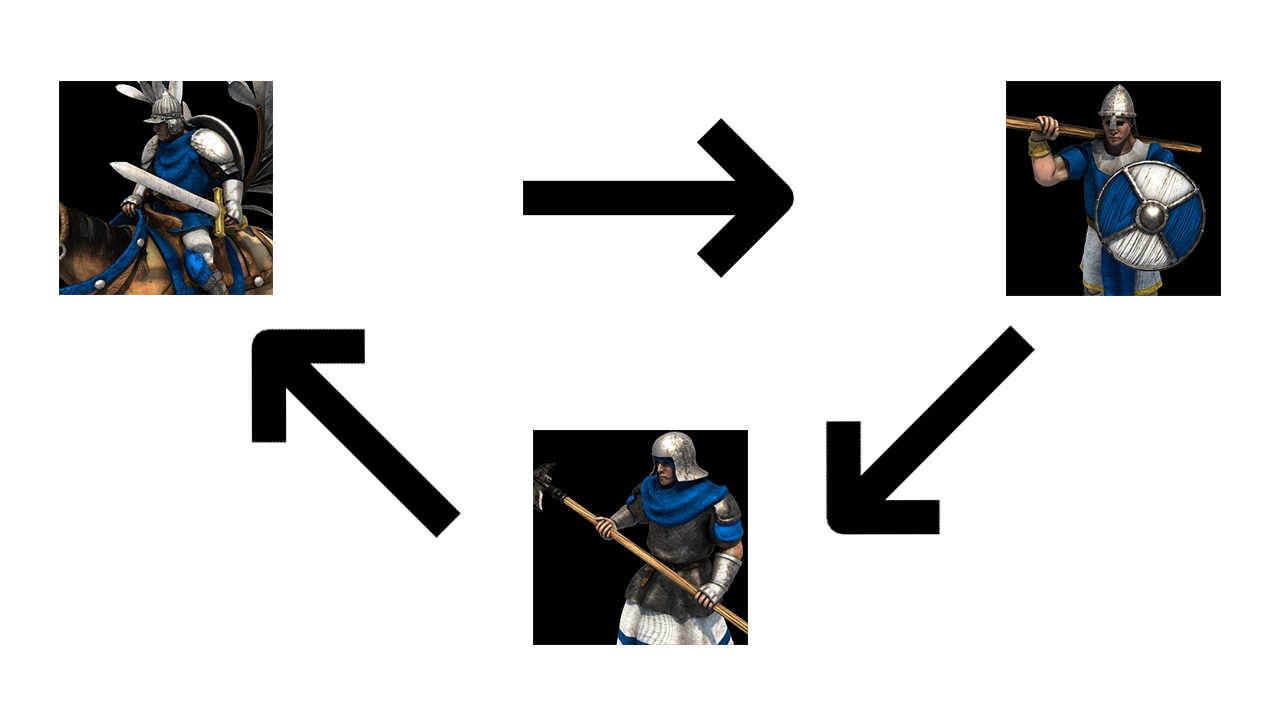
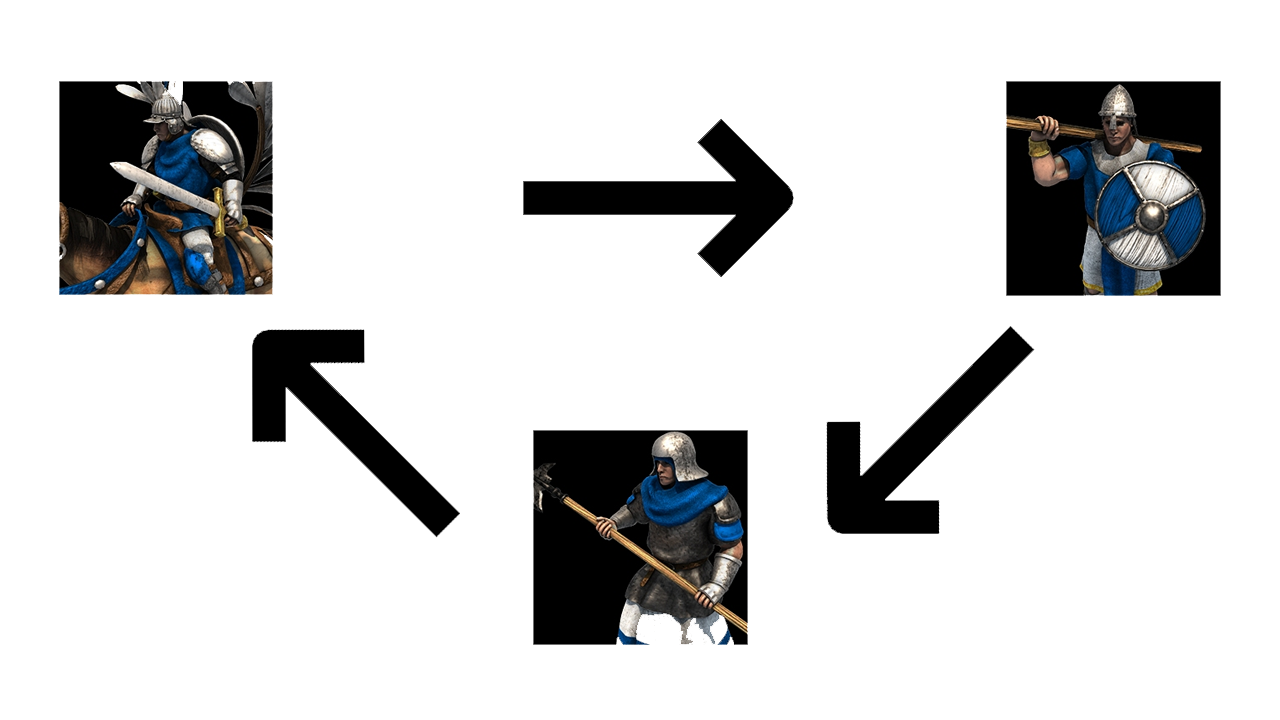
change app primaryswatch
- change app primaryswatch
- change aoe2uc.png to be transparent
- fixed camelcase issue on various files

diff --git a/lib/pages/leaderboard.dart b/lib/pages/leaderboard.dart
@@ -9,6 +9,8 @@ import 'about.dart';
 import 'counter.dart';
 import 'package:aoe2app/lbapimanager.dart';
 
+
+
 Future<void> _launchURL(String url) async {
   if (await canLaunch(url))
     await launch(url);
@@ -23,7 +25,7 @@ class LeaderboardPg extends StatefulWidget {
 }
 
 class _LeaderboardPgState extends State<LeaderboardPg> {
-  Future<leaderboardaoe2> _leaderboard;
+  Future<Leaderboardaoe2> _leaderboard;
   @override
   void initState() {
     _leaderboard = LbAPIManager().getData();
@@ -39,10 +41,7 @@ class _LeaderboardPgState extends State<LeaderboardPg> {
             children: <Widget>[
               DrawerHeader(
                 child: Text(
-                  'Age of Data',
-                  style: TextStyle(
-                    color: Colors.white,
-                  ),
+                  ''
                 ),
                 decoration: BoxDecoration(
                     color: Colors.blue,
@@ -108,7 +107,7 @@ class _LeaderboardPgState extends State<LeaderboardPg> {
           elevation: 0.0,
         ),
         body: Container(
-          child: FutureBuilder<leaderboardaoe2>(
+          child: FutureBuilder<Leaderboardaoe2>(
             future: _leaderboard,
             builder: (context, snapshot) {
               if (snapshot.hasData) {
@@ -132,6 +131,7 @@ class _LeaderboardPgState extends State<LeaderboardPg> {
                                         CrossAxisAlignment.start,
                                     children: <Widget>[
                                   Container(
+                                    padding: EdgeInsets.fromLTRB(5, 0, 0, 0),
                                     child: 
                                         Text(
                                         rank,

diff --git a/lib/main.dart b/lib/main.dart
@@ -10,6 +10,7 @@ import 'package:aoe2app/pages/about.dart';
 
 void main() {
   runApp(new MaterialApp(
+    theme: ThemeData(primarySwatch: Colors.grey),
     home: new SplashPage(),
   ));
 }
@@ -31,7 +32,7 @@ class _HomePageState extends State<HomePage> {
   Future<Welcome> _welcome;
   @override
   void initState() {
-    _welcome = API_Manager().getData();
+    _welcome = ApiManager().getData();
     super.initState();
   }
 
@@ -44,10 +45,7 @@ class _HomePageState extends State<HomePage> {
             children: <Widget>[
               DrawerHeader(
                 child: Text(
-                  'Age of Data',
-                  style: TextStyle(
-                    color: Colors.white,
-                  ),
+                  '',
                 ),
                 decoration: BoxDecoration(
                     color: Colors.blue,

diff --git a/lib/lbapimanager.dart b/lib/lbapimanager.dart
@@ -6,7 +6,7 @@ class LbAPIManager {
   String dataUrl =
       'https://aoe2.net/api/leaderboard?game=aoe2de&leaderboard_id=3&start=1&count=100';
 
-  Future<leaderboardaoe2> getData() async {
+  Future<Leaderboardaoe2> getData() async {
     var client = http.Client();
     var leaderboardlist ;
     try {
@@ -14,7 +14,7 @@ class LbAPIManager {
       if (response.statusCode == 200) {
         var jsonString = response.body;
         final jsonMap = json.decode(jsonString);
-        leaderboardlist =leaderboardaoe2.fromJson(jsonMap);
+        leaderboardlist =Leaderboardaoe2.fromJson(jsonMap);
       }
     } catch (Exception) {
       return leaderboardlist;

diff --git a/lib/models/lb.dart b/lib/models/lb.dart
@@ -1,18 +1,18 @@
-class leaderboardaoe2 {
+class Leaderboardaoe2 {
   int total;
   int leaderboardId;
   int start;
   int count;
   List<Leaderboard> leaderboard;
 
-  leaderboardaoe2(
+  Leaderboardaoe2(
       {this.total,
       this.leaderboardId,
       this.start,
       this.count,
       this.leaderboard});
 
-  leaderboardaoe2.fromJson(Map<String, dynamic> json) {
+  Leaderboardaoe2.fromJson(Map<String, dynamic> json) {
     total = json['total'];
     leaderboardId = json['leaderboard_id'];
     start = json['start'];

diff --git a/lib/pages/about.dart b/lib/pages/about.dart
@@ -16,10 +16,7 @@ class About extends StatelessWidget {
             children: <Widget>[
               DrawerHeader(
                 child: Text(
-                  'Age of Data',
-                  style: TextStyle(
-                    color: Colors.white,
-                  ),
+                  ''
                 ),
                 decoration: BoxDecoration(
                     color: Colors.redAccent,

diff --git a/lib/pages/counter.dart b/lib/pages/counter.dart
@@ -15,10 +15,7 @@ class Counter extends StatelessWidget {
             children: <Widget>[
               DrawerHeader(
                 child: Text(
-                  'Age of Data',
-                  style: TextStyle(
-                    color: Colors.white,
-                  ),
+                  ''
                 ),
                 decoration: BoxDecoration(
                     color: Colors.blue,

diff --git a/lib/apimanager.dart b/lib/apimanager.dart
@@ -2,7 +2,7 @@ import 'package:http/http.dart' as http;
 import 'dart:convert';
 import 'package:aoe2app/models/dataapi.dart';
 
-class API_Manager {
+class ApiManager {
   String dataUrl =
       'https://age-of-empires-2-api.herokuapp.com/api/v1/civilizations';
 
